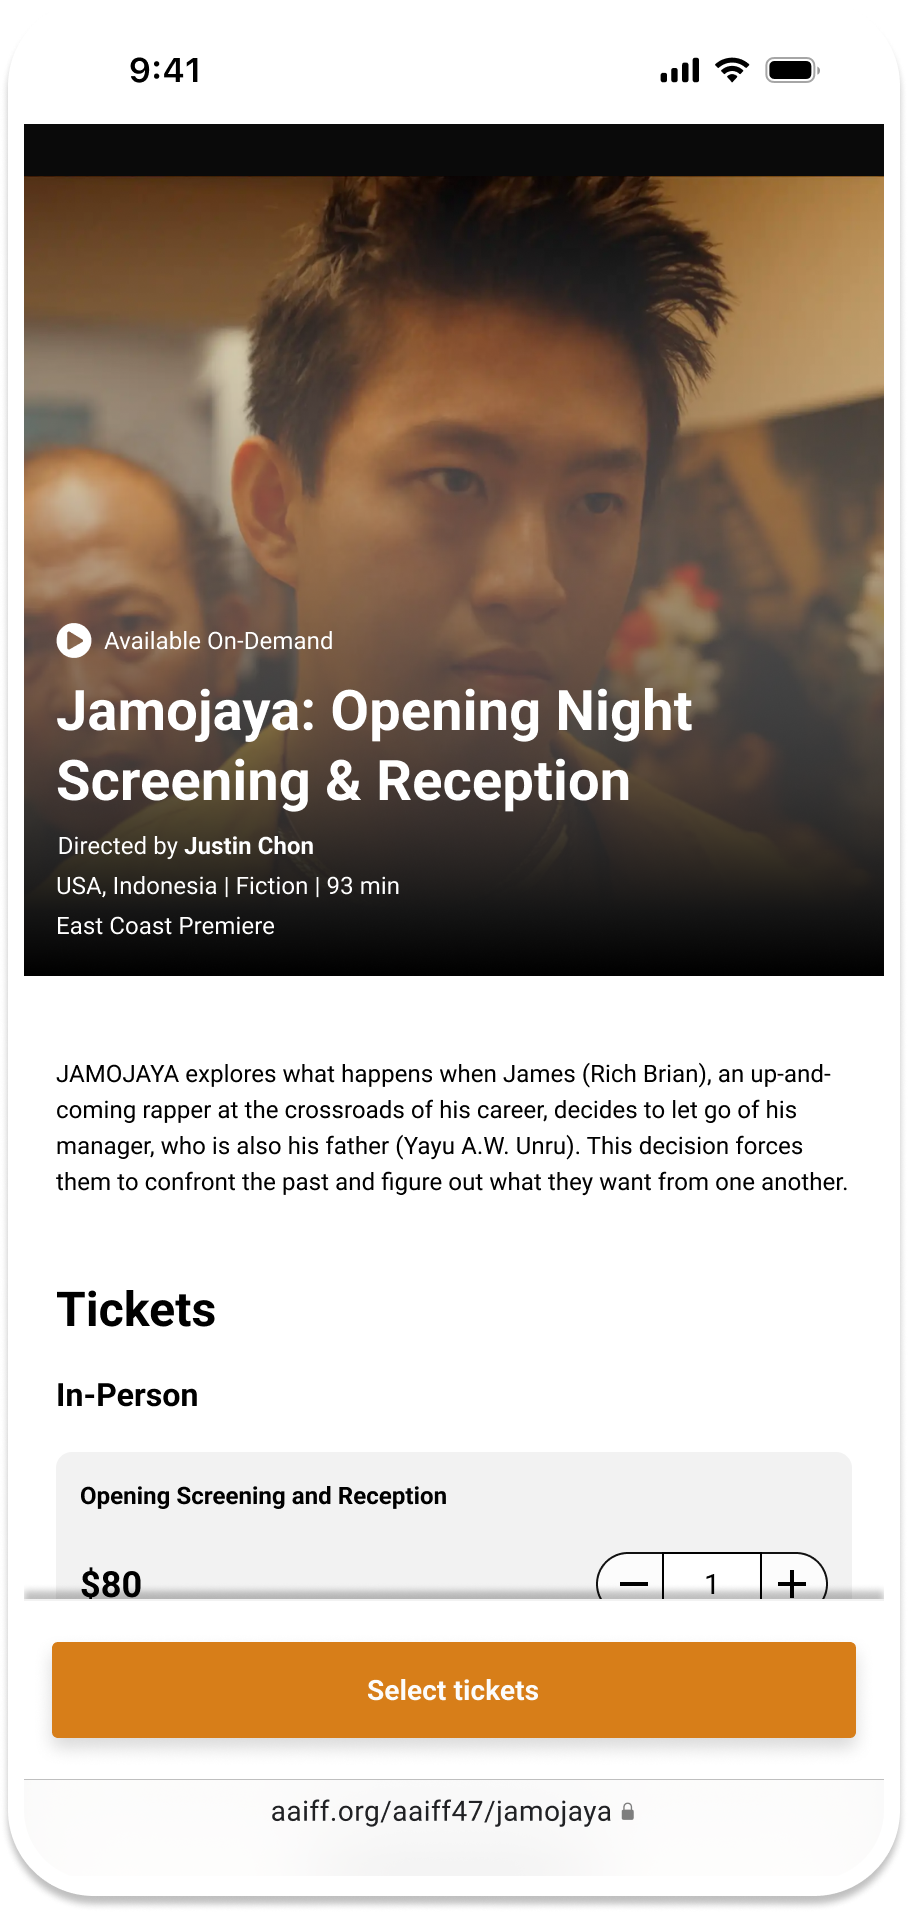
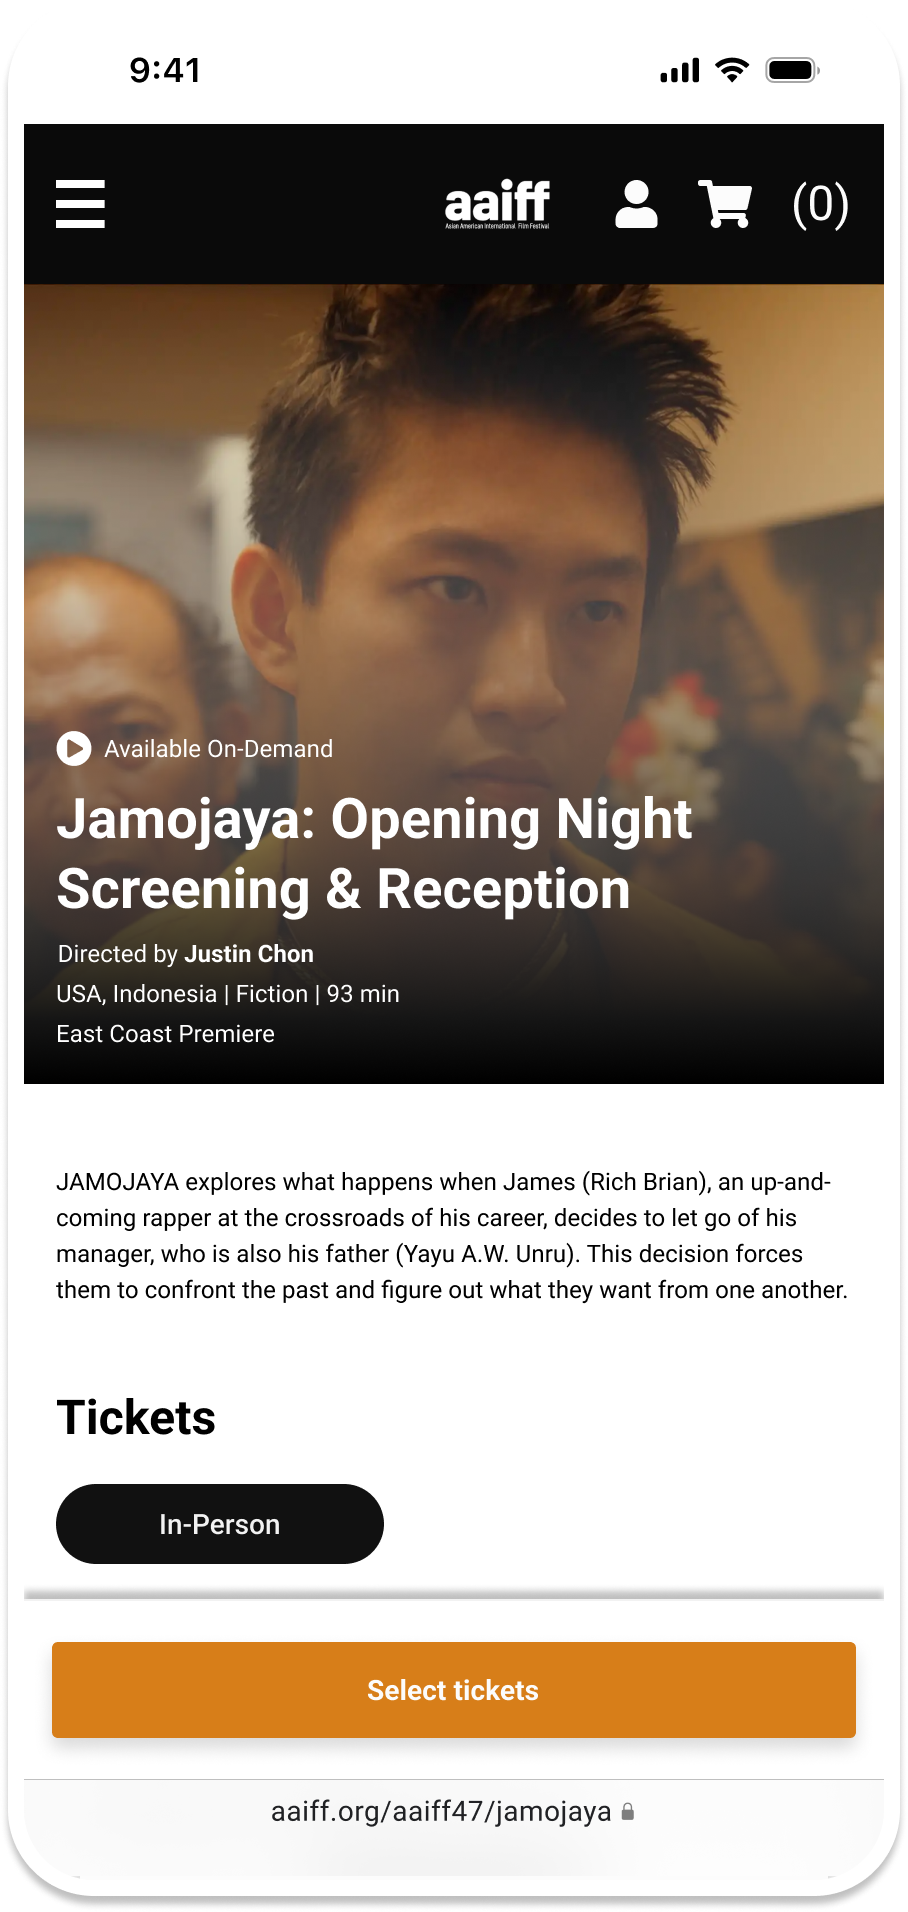
adding other frames to see and check

diff --git a/streamlining-ticketing.html b/streamlining-ticketing.html
@@ -116,7 +116,7 @@
               <img
                 loading="lazy"
                 style="max-width: 250px"
-                src="assets/aaiff/testmobile.png"
+                src="assets/aaiff/ticketingtestmobile.png"
                 alt="MyCTSavings Website Home Page"
               />
               <p>Ticketing page</p>
@@ -134,7 +134,7 @@
               <img
                 loading="lazy"
                 style="max-width: 250px"
-                src="assets/aaiff/testmobile.png"
+                src="assets/aaiff/defaulttestmobile.png"
                 alt="MyCTSavings Website Home Page"
               />
               <p>General Details</p>
@@ -143,7 +143,7 @@
               <img
                 loading="lazy"
                 style="max-width: 250px"
-                src="assets/aaiff/testmobile.png"
+                src="assets/aaiff/faqtestmobile.png"
                 alt="MyCTSavings Website Home Page"
               />
               <p>FAQ</p>
